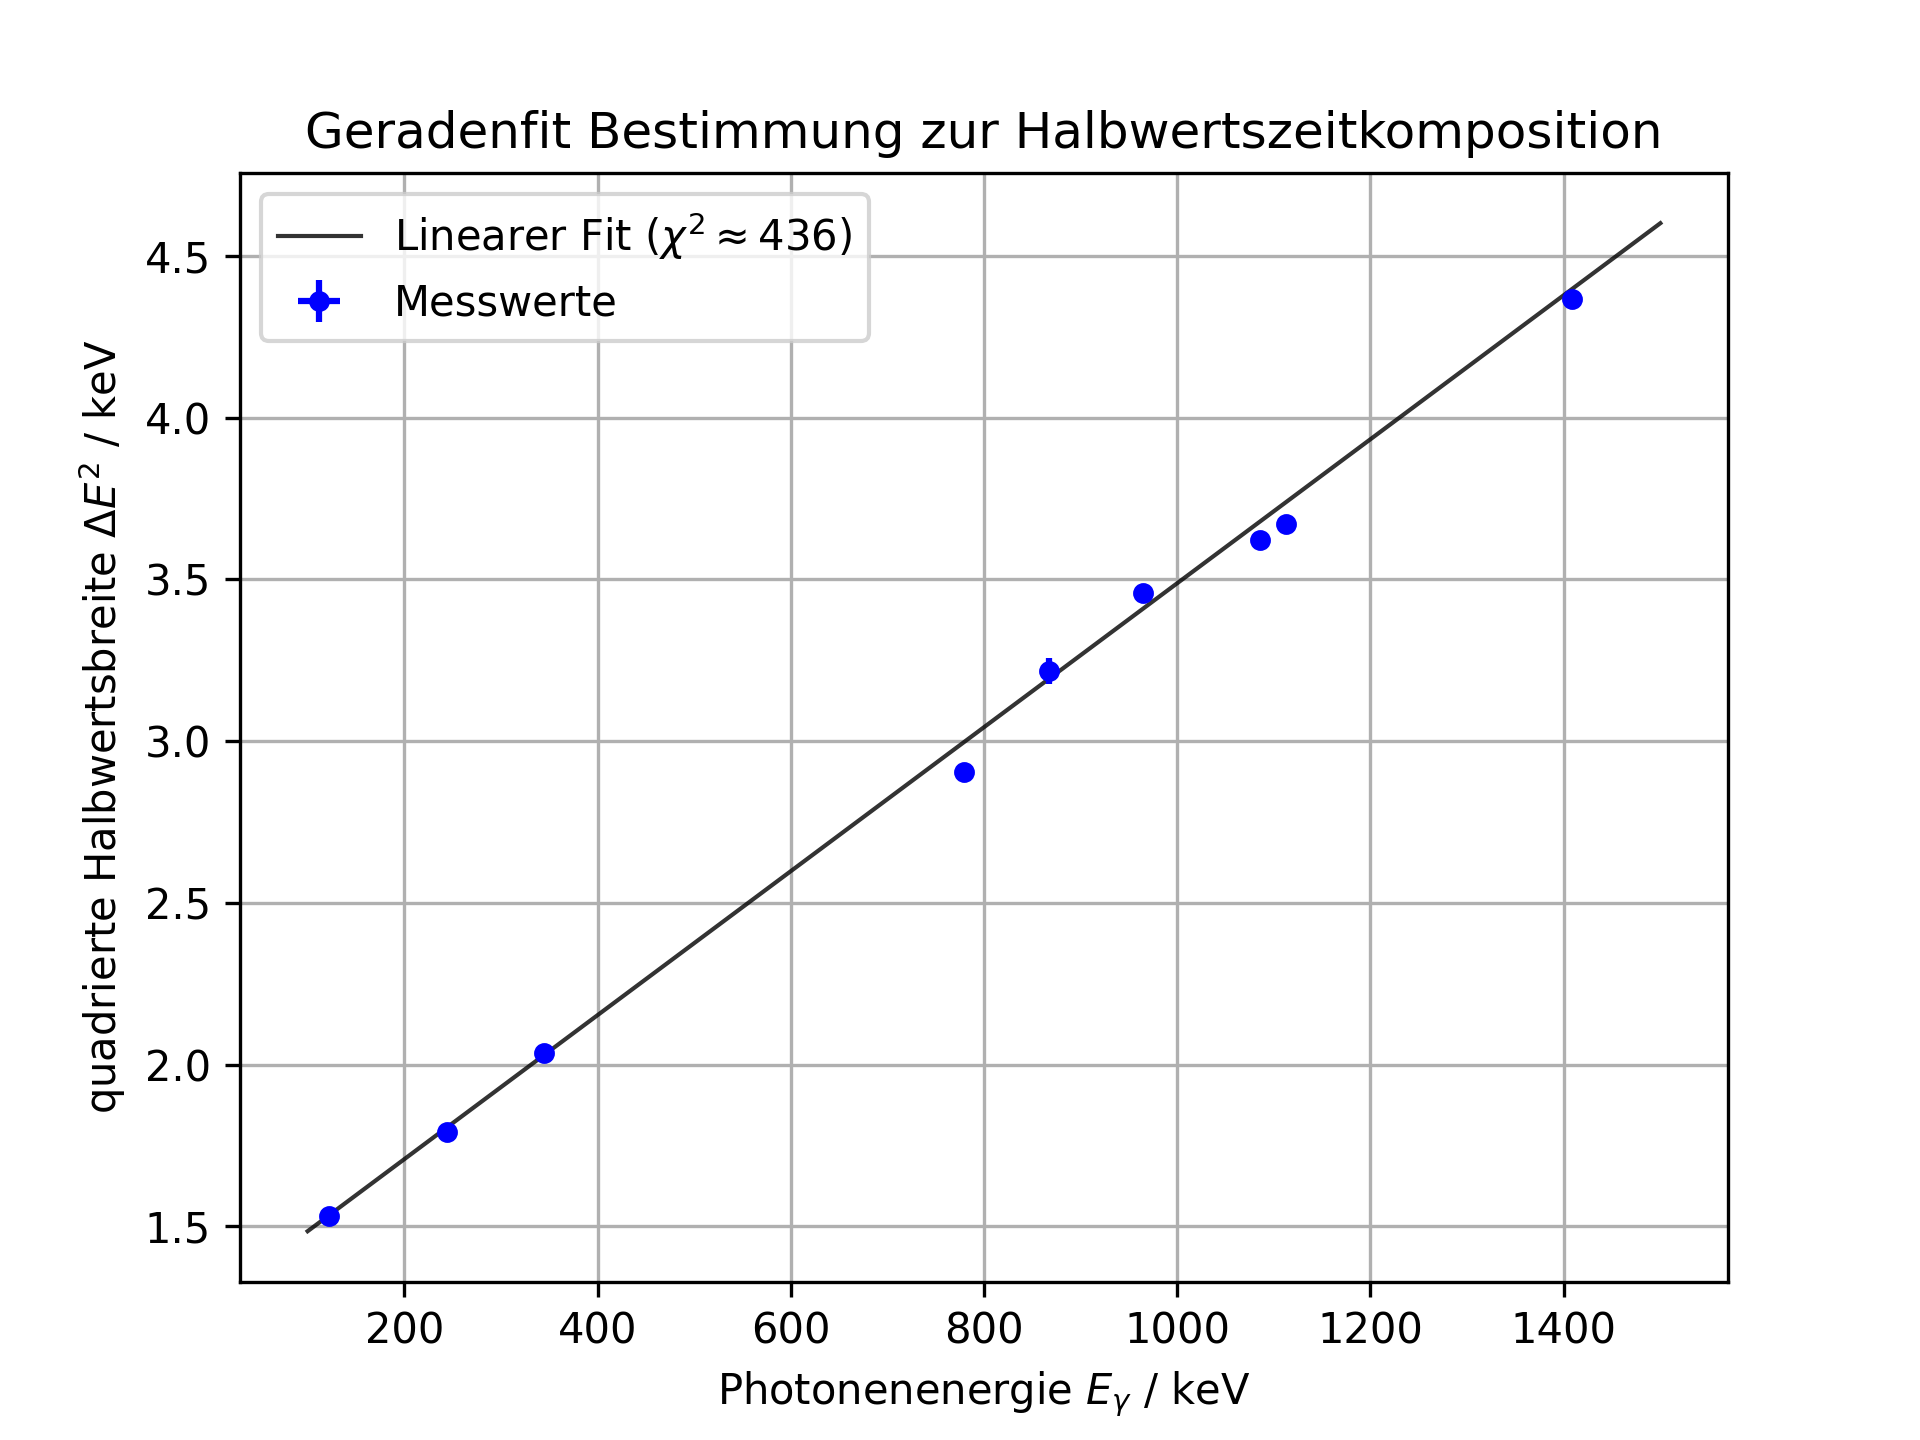
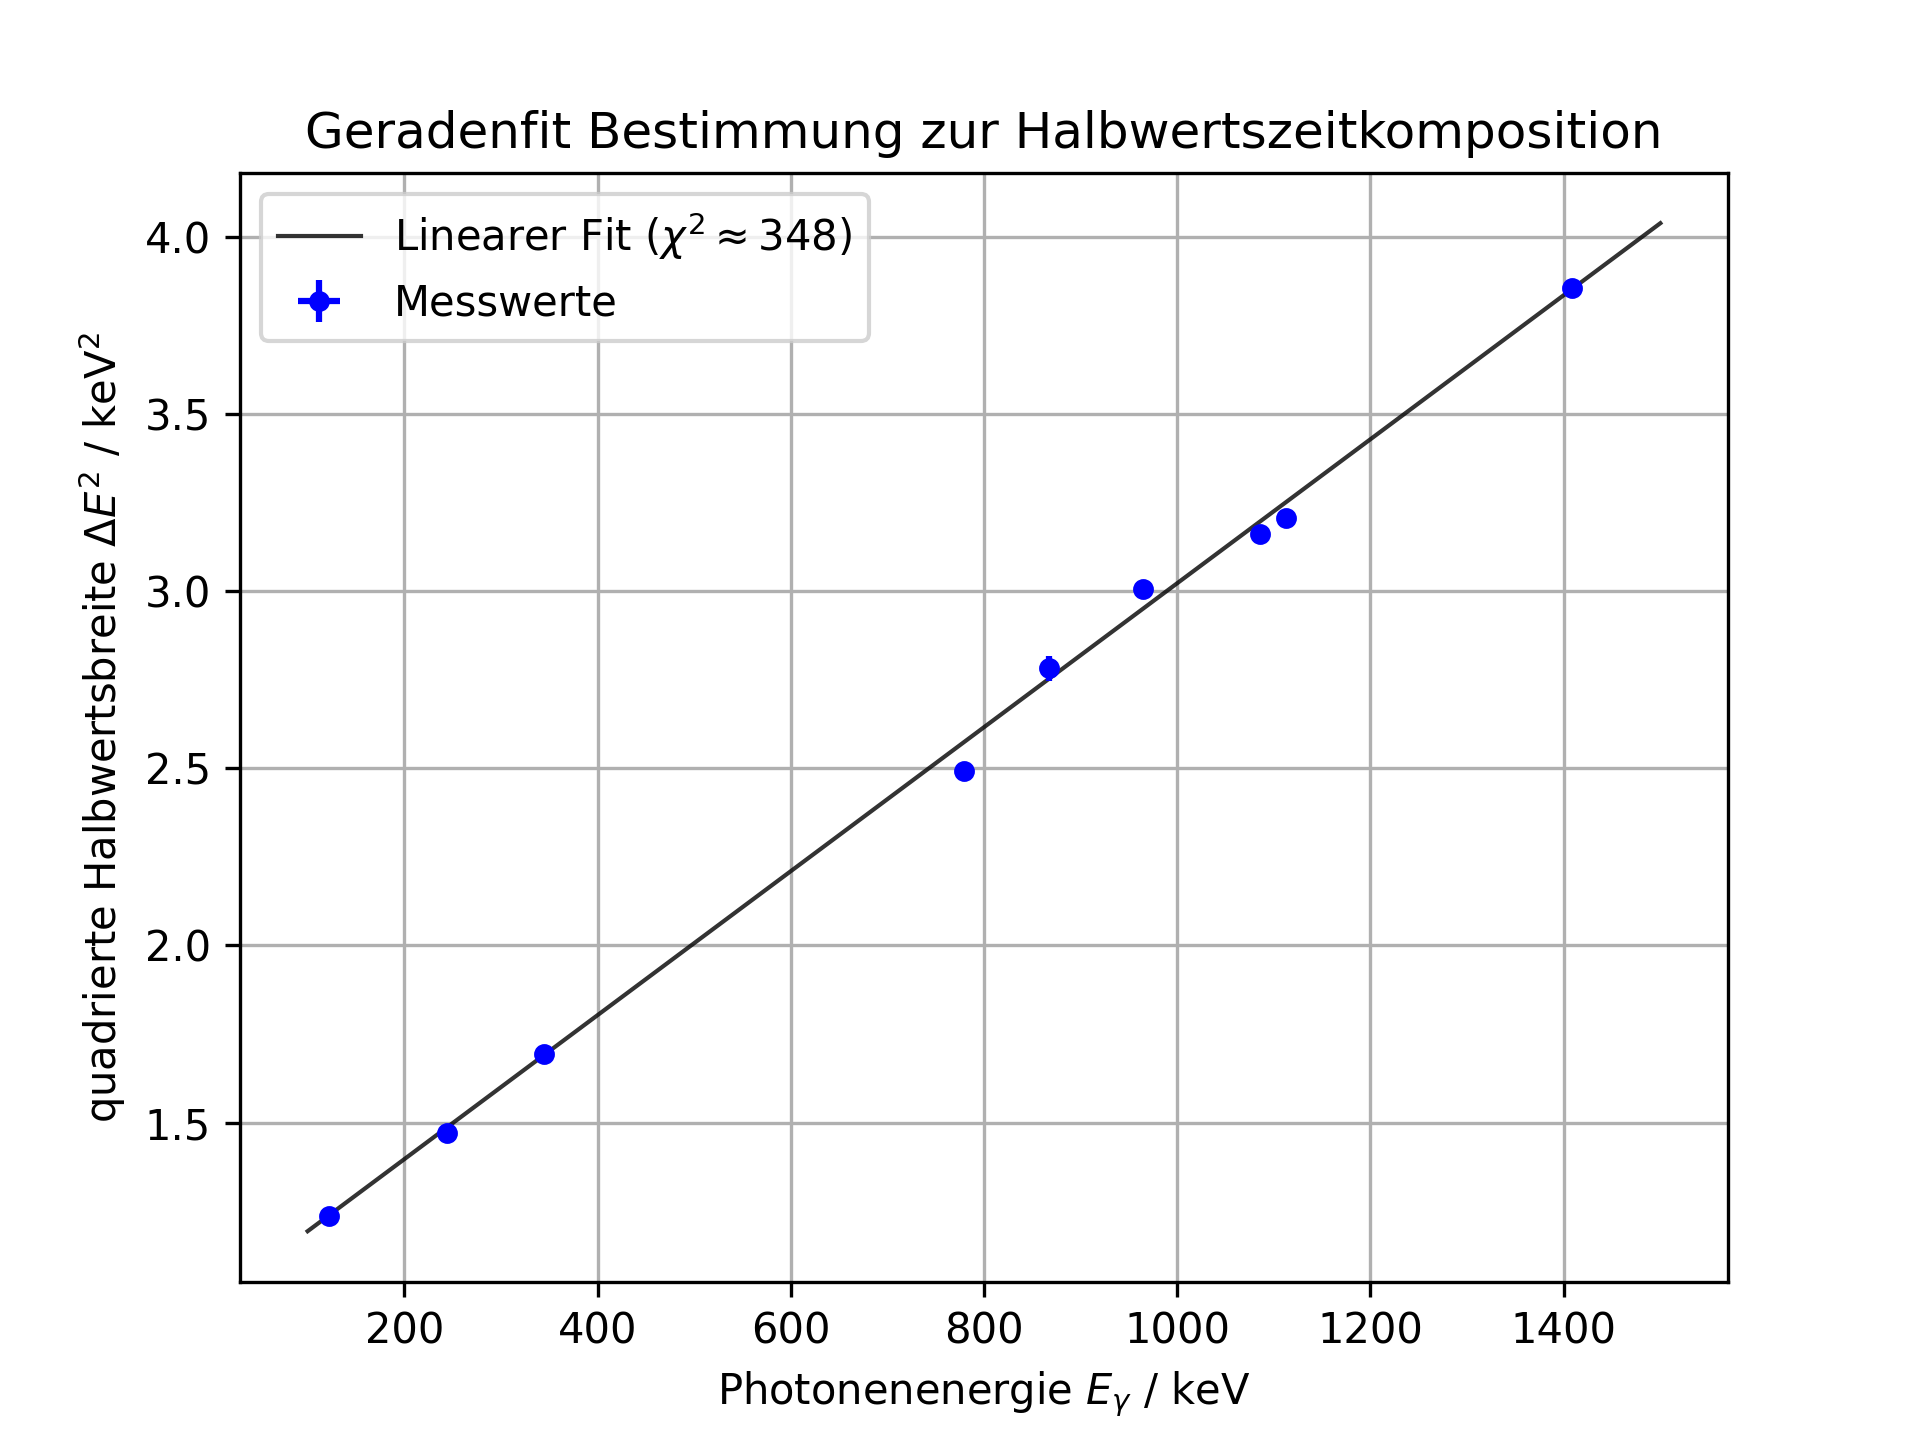
Update P521

diff --git a/Praktikum 5/V521/PeakToTotal + Effizienz/PTT+Effizienz.py b/Praktikum 5/V521/PeakToTotal + Effizienz/PTT+Effizienz.py
@@ -33,6 +33,9 @@ nai_Cs_peak = np.sum(nai_Cs[5600-3*165:5600+1+3*165])
 nai_Co_peak1 = np.sum(nai_Co[9711-3*211:9711+1+3*211])
 nai_Co_peak2 = np.sum(nai_Co[11011-3*249:11011+1+3*249])
 
+print(hpge_Co[13823-3*8:13823+1+3*8])
+
+
 Eu_peak1 = np.sum(Eu[1262-3*5:1262+1+3*5])
 Eu_peak2 = np.sum(Eu[2537-3*5:2537+1+3*5])
 Eu_peak3 = np.sum(Eu[3570-3*6:3570+1+3*6])
@@ -47,17 +50,19 @@ total = np.array([hpge_Cs_tot, hpge_Co_tot, nai_Cs_tot, nai_Co_tot])
 peaks = np.array([hpge_Cs_peak, hpge_Co_peak1+hpge_Co_peak2, nai_Cs_peak, nai_Co_peak1+nai_Co_peak2])
 Eu_peaks = np.array([Eu_peak1, Eu_peak2, Eu_peak3, Eu_peak7, Eu_peak8, Eu_peak9, Eu_peak10, Eu_peak12, Eu_peak13])
 
+print(total)
+
 to_latex_table(
     [total, np.sqrt(total), peaks, np.sqrt(peaks), peaks/total, (peaks/total)*np.sqrt((1/peaks) + (1/total))],
     dir_path + "ppt.txt",
-    round_to=[0, 0, 0, 0, 4, 4]
+    round_to=[1, 1, 1, 1, 4, 4]
                )
 
 E = np.array([121.7828343, 244.68766158, 344.27180967, 778.93568111, 867.36660395, 964.09834685, 1085.89298118, 1112.10118512, 1408.02845613])
 E_err = np.array([6.00304465e-05, 3.93680392e-04, 1.37707565e-04, 9.37920019e-04, 4.70693823e-03, 1.15629976e-03, 1.91873986e-03, 1.59615595e-03, 1.24216853e-03])
 
-I_rel = np.array([28.54, 7.55, 26.59, 12.93, 4.23, 14.51, 10.11, 13.67, 20.87])
-I_rel_err = np.array([0.16, 0.04, 0.2, 0.08, 0.03, 0.07, 0.05, 0.08, 0.09])
+I_rel = np.array([28.54, 7.55, 26.59, 12.93, 4.23, 14.51, 10.11, 13.67, 20.87]) * 0.01
+I_rel_err = np.array([0.16, 0.04, 0.2, 0.08, 0.03, 0.07, 0.05, 0.08, 0.09])*0.01
 
 A_Cs = 405000
 A_Eu = 709000
@@ -96,9 +101,9 @@ print(f"Effizienz NaI Cs: \t{eff_nai_Cs} \t± {eff_nai_Cs_err}")
 print(f"Effizienz HPGe Cs: \t{eff_hpge_Cs} \t± {eff_hpge_Cs_err}")
 
 to_latex_table(
-    [E, Eu_peaks, np.sqrt(Eu_peaks), I_rel, I_rel_err],
-    dir_path + "Eu_N_I.txt"
-    # round_to= [0, 3, 3]
+    [E, Eu_peaks, np.sqrt(Eu_peaks), eff_hpge_Eu*100, eff_hpge_Eu_err*100],
+    dir_path + "Eu_N_eff.txt",
+    round_to= [0, 1, 0, 3, 3]
                )
 
 to_latex_table(
@@ -145,3 +150,9 @@ plt.ylabel(r"Logarithmus der Effizienz log($\epsilon$)")
 plt.title("Fit zur Bestimmung der Energieabhänigkeit der Effizienz")
 
 plt.savefig(dir_path + "figure1.png", dpi=300)
+
+print(N_nai_Cs)
+print(N_nai_Cs_err)
+print(N_hpge_Cs)
+print(N_hpge_Cs_err)
+print(hpge_Co_peak1 + hpge_Co_peak2)

diff --git a/Praktikum 5/V521/Energie + FWHM/energieliste.py b/Praktikum 5/V521/Energie + FWHM/energieliste.py
@@ -44,10 +44,10 @@ E_hpge = m_hpge * b_hpge + n_hpge
 E_hpge_err = np.sqrt( ((m_hpge*b_hpge)**2)*((m_hpge_err/m_hpge)**2 + (b_hpge_err/b_hpge)**2) + n_hpge_err**2 )
 
 j = 2 * np.sqrt(2 * np.log(2))
-FWHM_nai = m_nai * (j * sigma_nai) + n_nai
-FWHM_nai_err = np.sqrt( ((m_nai*(j * sigma_nai))**2)*((m_nai_err/m_nai)**2 + (sigma_nai_err/sigma_nai)**2) + n_nai_err**2 )
-FWHM_hpge = m_hpge * (j * sigma_hpge) + n_hpge
-FWHM_hpge_err = np.sqrt( ((m_hpge*(j * sigma_hpge))**2)*((m_hpge_err/m_hpge)**2 + (sigma_hpge_err/sigma_hpge)**2) + n_hpge_err**2 )
+FWHM_nai = m_nai * (j * sigma_nai) 
+FWHM_nai_err = np.sqrt( ((m_nai*(j * sigma_nai))**2)*((m_nai_err/m_nai)**2 + (sigma_nai_err/sigma_nai)**2) )
+FWHM_hpge = m_hpge * (j * sigma_hpge)
+FWHM_hpge_err = np.sqrt( ((m_hpge*(j * sigma_hpge))**2)*((m_hpge_err/m_hpge)**2 + (sigma_hpge_err/sigma_hpge)**2))
 
 slice = list(range(3, len(E_hpge)))
 
@@ -56,8 +56,8 @@ y = FWHM_hpge**2
 x_err = E_hpge_err
 y_err = y * 2 * FWHM_hpge_err / FWHM_hpge
 
-to_latex_table([E_nai, E_nai_err, FWHM_nai, FWHM_nai_err], dir_path + "nai_energy_fwhm.txt", round_to=5)
-to_latex_table([E_hpge, E_hpge_err, FWHM_hpge, FWHM_hpge_err, y, y_err], dir_path + "hpge_energy_fwhm.txt", round_to=5)
+to_latex_table([E_nai, E_nai_err, FWHM_nai, FWHM_nai_err], dir_path + "nai_energy_fwhm.txt", round_to=1)
+to_latex_table([E_hpge, E_hpge_err, FWHM_hpge, FWHM_hpge_err, y, y_err], dir_path + "hpge_energy_fwhm.txt", round_to=3)
 
 popt, pcov = curve_fit(f=linear, xdata=x[slice], ydata=y[slice], sigma=y_err[slice], absolute_sigma=True)
 fit_values = popt
@@ -73,7 +73,7 @@ fit_vals = np.linspace(100, 1500, 300)
 plt.plot(fit_vals, linear(fit_vals, *popt), label=r"Linearer Fit ($\chi^2 \approx $" + f"{int(np.round(chi_squared,0))}" + ")", color="black", linewidth=1, zorder=3, alpha=0.8)
 
 plt.xlabel(r"Photonenenergie $E_\gamma$ / keV")
-plt.ylabel("quadrierte Halbwertsbreite $\Delta E ^2$ / keV")
+plt.ylabel("quadrierte Halbwertsbreite $\Delta E ^2$ / keV${}^2$")
 plt.title("Geradenfit Bestimmung zur Halbwertszeitkomposition")
 
 plt.errorbar(x[slice], y[slice], yerr=y_err[slice], xerr=x_err[slice], fmt='o', label=f'Messwerte', color='b', ms=4, zorder=4, alpha=1)

diff --git a/Praktikum 5/V521/HPGe/np_to_latex.py b/Praktikum 5/V521/HPGe/np_to_latex.py
@@ -73,6 +73,6 @@ data = np.loadtxt(data_path + "big_data.txt", delimiter=" ", usecols = range(2, 
 
 data = np.insert(data, 0, np.array(range(data[0].size))+1, axis=0)
 
-rounding_list = [0, 0, 0, 2, 3, 2, 4]
+rounding_list = [0, 0, 0, 2, 2, 2, 2]
 
 to_latex_table(data, current_path + "latex_table_data",round_to=rounding_list)

diff --git a/Praktikum 5/V521/NaI/np_to_latex.py b/Praktikum 5/V521/NaI/np_to_latex.py
@@ -73,6 +73,6 @@ data = np.loadtxt(data_path + "big_data.txt", delimiter=" ", usecols = range(2, 
 
 data = np.insert(data, 0, np.array(range(data[0].size))+1, axis=0)
 
-rounding_list = [0, 0, 0, 2, 3, 2, 4]
+rounding_list = [0, 0, 0, 1, 1, 1, 1]
 
 to_latex_table(data, current_path + "latex_table_data",round_to=rounding_list)

diff --git a/Praktikum 5/V521/Voraufgabe/np_to_latex.py b/Praktikum 5/V521/Voraufgabe/np_to_latex.py
@@ -77,6 +77,6 @@ data = np.insert(data, 0, np.array(range(data[0].size))+1, axis=0)
 rounding_list = []
 
 
-rounding_list = [0, 0, 0, 2, 3, 2, 4]
+rounding_list = [0, 0, 0, 0, 0, 1, 1]
 
 to_latex_table(data, current_path + "latex_table_data",round_to=rounding_list)
